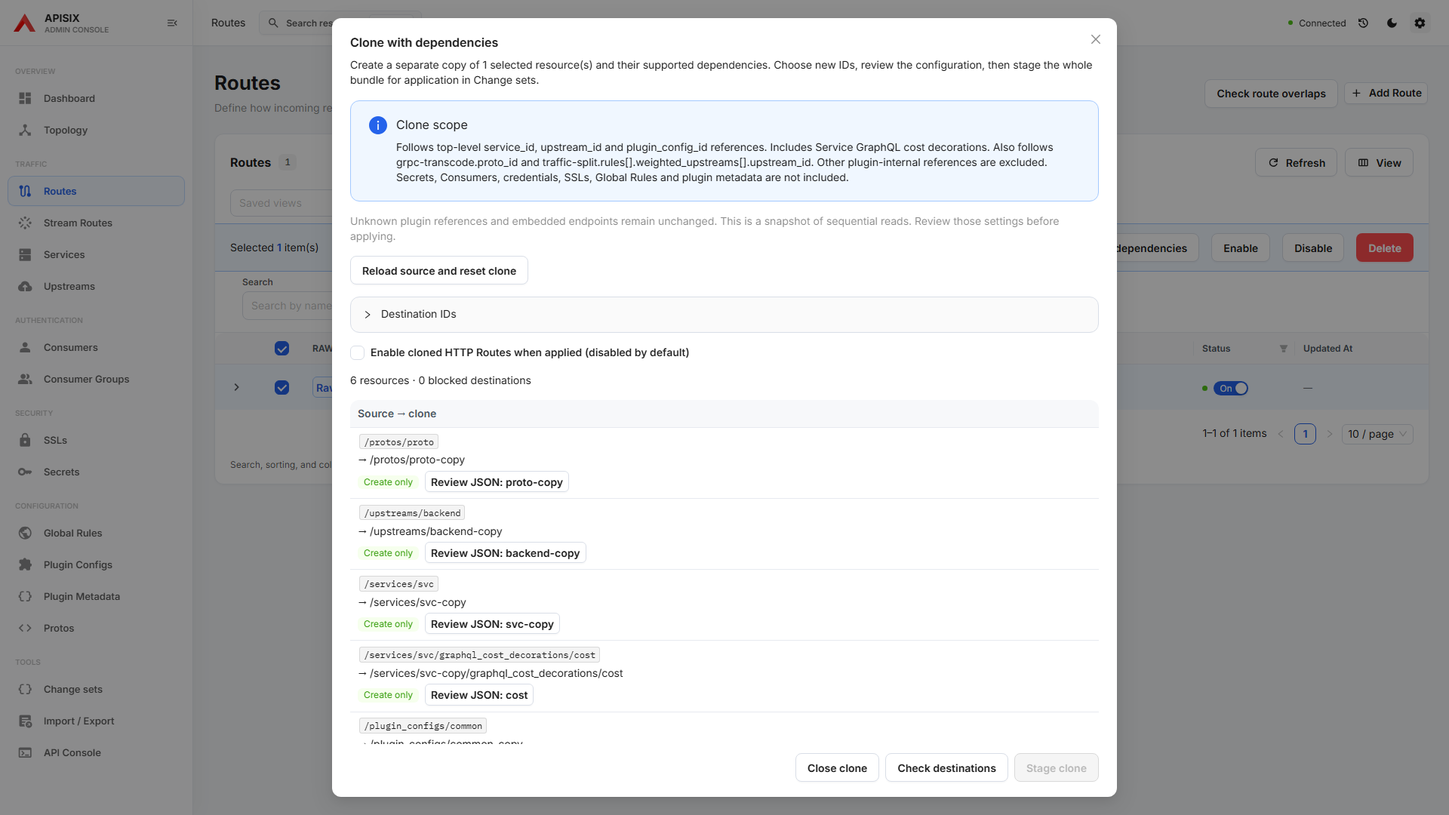
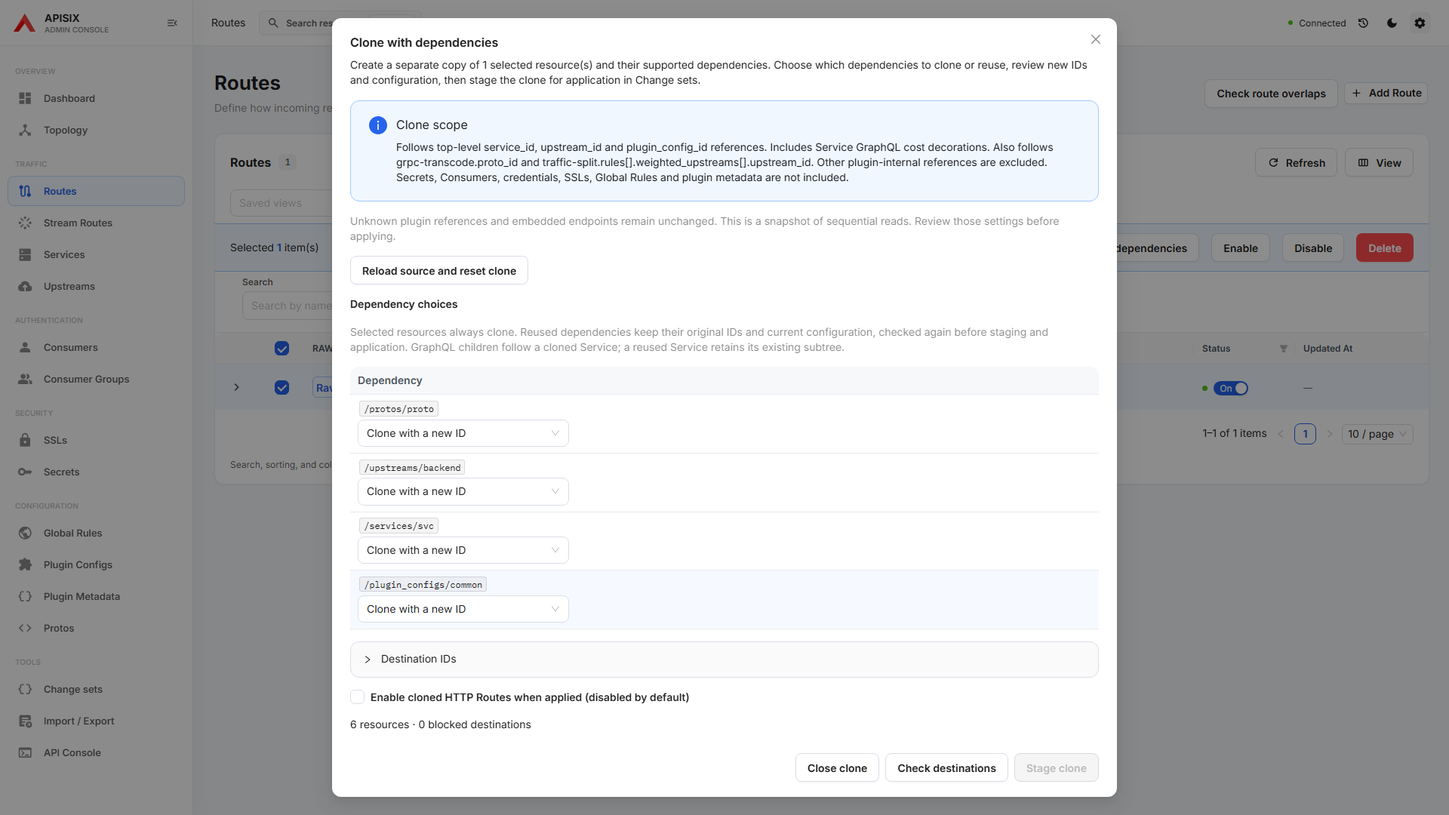
feat(clone): choose existing dependencies to reuse

Changed region(s): [[0.25, 0.3667, 0.7188, 0.9167], [0.25, 0.0917, 0.4688, 0.1222], [0.5625, 0.0611, 0.75, 0.0917]]

diff --git a/src/components/page/DependencyClone.tsx b/src/components/page/DependencyClone.tsx
@@ -15,12 +15,12 @@
  * limitations under the License.
  */
 import { Link } from '@tanstack/react-router';
-import { Alert, Button, Checkbox, Collapse, Modal, Space, Table, Tag, Typography } from 'antd';
+import { Alert, Button, Checkbox, Collapse, Modal, Select, Space, Table, Tag, Typography } from 'antd';
 import { useEffect, useRef, useState } from 'react';
 
-import { type CloneDraft, type ClonePreview, prepareCloneDrafts, previewDependencyClone, suggestCloneMappings } from '@/apis/dependency-clone';
+import { type CloneDraft, type ClonePreview, prepareCloneDrafts, previewDependencyClone, selectCloneResources, suggestCloneMappings } from '@/apis/dependency-clone';
 import { dependencyExportScope, prepareDependencyExport, supportsDependencyExport } from '@/apis/dependency-export';
-import type { ExportData } from '@/apis/export-import';
+import { type ExportData, getImportRequest, IMPORT_ORDER } from '@/apis/export-import';
 import type { ImportPreviewItem } from '@/apis/import-preview';
 import { JsonChangeReview } from '@/components/form/JsonChangeReview';
 import { EnvironmentIdMapping } from '@/components/page/EnvironmentIdMapping';
@@ -36,6 +36,7 @@ export const DependencyClone = ({ apiBase, selectedIds, disabled, onStage }: {
   const [source, setSource] = useState<ExportData>();
   const [ids, setIds] = useState<string[]>([]);
   const [mappings, setMappings] = useState('{}');
+  const [reusedUrls, setReusedUrls] = useState<string[]>([]);
   const [activate, setActivate] = useState(false);
   const [reviewed, setReviewed] = useState(false);
   const [preview, setPreview] = useState<ClonePreview>();
@@ -46,16 +47,16 @@ export const DependencyClone = ({ apiBase, selectedIds, disabled, onStage }: {
   useEffect(() => () => { ++revision.current; }, []);
   if (!supportsDependencyExport(apiBase)) return null;
   const invalidate = () => { ++revision.current; setPreview(undefined); setReviewed(false); setStaged(0); setError(''); setLoading(false); setDiff(undefined); };
-  const close = () => { invalidate(); setOpen(false); setSource(undefined); setMappings('{}'); setActivate(false); };
+  const close = () => { invalidate(); setOpen(false); setSource(undefined); setMappings('{}'); setActivate(false); setReusedUrls([]); };
   const readSource = async (selection: string[]) => {
-    invalidate(); const current = revision.current; setLoading(true); setSource(undefined); setActivate(false);
+    invalidate(); const current = revision.current; setLoading(true); setSource(undefined); setActivate(false); setReusedUrls([]);
     try {
       const bundle = await prepareDependencyExport(apiBase, selection, scope);
       if (current !== revision.current) return;
       if (bundle.blocked) throw new Error(bundle.rows.filter((row) => row.status !== 'Included').map((row) => `${row.key}: ${row.error}`).join('; '));
       const text = suggestCloneMappings(bundle.data);
       setSource(bundle.data); setMappings(text);
-      const result = await previewDependencyClone(bundle.data, text);
+      const result = await previewDependencyClone(bundle.data, text, false, { rootUrls: selection.map((id) => `${apiBase}/${encodeURIComponent(id)}`), reusedUrls: [] });
       if (current === revision.current) setPreview(result);
     } catch (cause) { if (current === revision.current) setError(message(cause)); }
     finally { if (current === revision.current) setLoading(false); }
@@ -64,7 +65,7 @@ export const DependencyClone = ({ apiBase, selectedIds, disabled, onStage }: {
     if (!source) return;
     const current = ++revision.current; setLoading(true); setError(''); setStaged(0);
     try {
-      const result = stage ? await prepareCloneDrafts(source, mappings, activate) : { preview: await previewDependencyClone(source, mappings, activate), drafts: [] };
+      const result = stage ? await prepareCloneDrafts(source, mappings, activate, choices) : { preview: await previewDependencyClone(source, mappings, activate, choices), drafts: [] };
       if (current !== revision.current) return;
       setPreview(result.preview);
       if (stage) {
@@ -73,6 +74,15 @@ export const DependencyClone = ({ apiBase, selectedIds, disabled, onStage }: {
       }
     } catch (cause) { if (current === revision.current) { setError(message(cause)); setReviewed(false); } }
     finally { if (current === revision.current) setLoading(false); }
+  };
+  const choices = { rootUrls: ids.map((id) => `${apiBase}/${encodeURIComponent(id)}`), reusedUrls };
+  const selection = source ? selectCloneResources(source, choices) : undefined;
+  const entries = source ? IMPORT_ORDER.flatMap((kind) => (source.resources[kind] ?? []).map((item) => ({ kind, item, url: getImportRequest(kind, item).url }))) : [];
+  const cloneUrls = new Set(selection ? IMPORT_ORDER.flatMap((kind) => (selection.data.resources[kind] ?? []).map((item) => getImportRequest(kind, item).url)) : []);
+  const fixedIds = entries.filter((entry) => !cloneUrls.has(entry.url)).map((entry) => JSON.stringify([entry.kind, String(entry.item.id)]));
+  const chooseReuse = (url: string, reuse: boolean) => {
+    invalidate();
+    setReusedUrls(reuse ? [...reusedUrls, url] : reusedUrls.filter((value) => value !== url));
   };
   const blocked = preview?.rows.filter((row) => row.status !== 'New').length ?? 0;
   return <>
@@ -83,18 +93,35 @@ export const DependencyClone = ({ apiBase, selectedIds, disabled, onStage }: {
         <Button aria-label="Check destinations" aria-busy={loading} loading={loading} disabled={!source || loading || !!staged} onClick={() => void compare()}>Check destinations</Button>
         <Button type="primary" aria-label="Stage clone" aria-busy={loading} loading={loading} disabled={loading || !preview || !preview.rows.length || !!blocked || !reviewed || !!staged} onClick={() => void compare(true)}>Stage clone</Button></Space>}>
       <Space orientation="vertical" size="middle" style={{ width: '100%' }}>
-        <Typography.Paragraph style={{ margin: 0 }}>Create a separate copy of {ids.length} selected resource(s) and their supported dependencies. Choose new IDs, review the configuration, then stage the whole bundle for application in Change sets.</Typography.Paragraph>
+        <Typography.Paragraph style={{ margin: 0 }}>Create a separate copy of {ids.length} selected resource(s) and their supported dependencies. Choose which dependencies to clone or reuse, review new IDs and configuration, then stage the clone for application in Change sets.</Typography.Paragraph>
         <Alert type="info" showIcon title="Clone scope" description={dependencyExportScope(scope)} />
         <Typography.Text type="secondary">Unknown plugin references and embedded endpoints remain unchanged. This is a snapshot of sequential reads. Review those settings before applying.</Typography.Text>
         <Button disabled={loading} onClick={() => void readSource(ids)}>Reload source and reset clone</Button>
         {error && <Alert type="error" showIcon title="Clone needs attention" description={error} />}
         {!!staged && <Alert type="success" showIcon title={`${staged} resources staged; nothing applied yet`} description={<Space orientation="vertical"><span>Create-only destinations are checked again before each write. This draft stays in memory until the page reloads.</span><Link to="/change_sets" onClick={close}>Open Change sets</Link></Space>} />}
         {source && <>
-          <Collapse defaultActiveKey={['mapping']} items={[{ key: 'mapping', label: 'Destination IDs', children: <EnvironmentIdMapping data={source} text={mappings} disabled={loading || !!staged} onChange={(text) => { invalidate(); setMappings(text); }} /> }]} />
+          <Typography.Text strong>Dependency choices</Typography.Text>
+          <Typography.Text type="secondary">Selected resources always clone. Reused dependencies keep their original IDs and current configuration, checked again before staging and application. GraphQL children follow a cloned Service; a reused Service retains its existing subtree.</Typography.Text>
+          <Table size="small" rowKey="url" dataSource={entries.filter((entry) => !choices.rootUrls.includes(entry.url) && entry.kind !== 'graphqlCostDecorations')} pagination={false} columns={[{
+            title: 'Dependency', key: 'dependency', render: (_, entry) => <Space orientation="vertical" size={4} style={{ width: '100%', overflowWrap: 'anywhere' }}>
+              <Typography.Text code>{entry.url}</Typography.Text>
+              <Select virtual={false} aria-label={`Dependency choice ${entry.url}`} value={reusedUrls.includes(entry.url) ? 'reuse' : 'clone'}
+                style={{ width: '100%', maxWidth: 280 }} disabled={loading || !!staged}
+                options={[{ value: 'clone', label: 'Clone with a new ID' }, { value: 'reuse', label: 'Reuse existing original' }]}
+                onChange={(value) => chooseReuse(entry.url, value === 'reuse')} />
+              {selection?.omittedUrls.includes(entry.url) && <Typography.Text type="secondary">Not needed by this clone; retained through a reused dependency.</Typography.Text>}
+            </Space>,
+          }]} />
+          <Collapse defaultActiveKey={['mapping']} items={[{ key: 'mapping', label: 'Destination IDs', children: <>
+            <Typography.Paragraph type="secondary">Mappings for reused or unneeded dependencies are ignored; their source IDs stay unchanged.</Typography.Paragraph>
+            <EnvironmentIdMapping data={source} text={mappings} fixedIds={fixedIds} disabled={loading || !!staged} onChange={(text) => { invalidate(); setMappings(text); }} />
+          </> }]} />
           {!!source.resources.routes.length && <Checkbox checked={activate} disabled={loading || !!staged} onChange={(event) => { invalidate(); setActivate(event.target.checked); }}>Enable cloned HTTP Routes when applied (disabled by default)</Checkbox>}
           {!!source.resources.streamRoutes.length && <Alert type="warning" showIcon title="Review Stream Route matching" description="Stream Routes have no cloned disabled state here. Their matching fields stay the same, so they can overlap active traffic when applied. Review server ports, addresses, SNI and priority in Change sets before applying." />}
         </>}
         {preview && <>
+          {!!preview.reusedUrls.length && <Alert type="info" title={`${preview.reusedUrls.length} existing dependencies reused`} description={<ul>{preview.reusedUrls.map((url) => <li key={url}><code>{url}</code></li>)}</ul>} />}
+          {!!preview.omittedUrls.length && <Collapse items={[{ key: 'omitted', label: `${preview.omittedUrls.length} resources outside the clone plan`, children: <><p>These remain under reused dependencies and will not be created or changed.</p><ul>{preview.omittedUrls.map((url) => <li key={url}><code>{url}</code></li>)}</ul></> }]} />}
           <div role="status">{preview.rows.length} resources · {blocked} blocked destinations</div>
           <Table size="small" rowKey="key" dataSource={preview.rows} pagination={{ pageSize: 6, showSizeChanger: false }} columns={[{
             title: 'Source → clone', key: 'resource', render: (_, row) => <Space orientation="vertical" size={4} style={{ width: '100%', overflowWrap: 'anywhere' }}>

diff --git a/src/apis/dependency-clone.ts b/src/apis/dependency-clone.ts
@@ -14,13 +14,54 @@
  * See the License for the specific language governing permissions and
  * limitations under the License.
  */
-import { checkEnvironmentReferences, type IdMappings, mapImportEnvironment, MAPPABLE_RESOURCES } from '@/apis/environment-import';
+import { checkEnvironmentReferences, environmentReferences, type IdMappings, mapImportEnvironment, MAPPABLE_RESOURCES, parseIdMappings } from '@/apis/environment-import';
 import { type ExportData, getImportRequest, IMPORT_ORDER, type ResourceKey } from '@/apis/export-import';
 import { type ImportPreviewItem, previewImport } from '@/apis/import-preview';
 
 const cloneKinds: ResourceKey[] = ['routes', 'streamRoutes', 'services', 'upstreams', 'pluginConfigs', 'protos', 'graphqlCostDecorations'];
 export type CloneDraft = { resourceType: ResourceKey; item: Record<string, unknown>; baseline: null };
-export type ClonePreview = { data: ExportData; rows: ImportPreviewItem[] };
+export type CloneChoices = { rootUrls: string[]; reusedUrls: string[] };
+export type ClonePreview = { data: ExportData; rows: ImportPreviewItem[]; reusedUrls: string[]; omittedUrls: string[] };
+
+/** Reusing an owner keeps its existing subtree; only references from cloned resources need copies. */
+export function selectCloneResources(source: ExportData, choices?: CloneChoices) {
+  const entries = IMPORT_ORDER.flatMap((kind) => (source.resources[kind] ?? []).map((item) => ({ kind, item, url: getImportRequest(kind, item).url })));
+  const byUrl = new Map(entries.map((entry) => [entry.url, entry]));
+  if (byUrl.size !== entries.length) throw new Error('Duplicate source resource in clone.');
+  if (entries.some((entry) => !cloneKinds.includes(entry.kind))) throw new Error('A resource type is not supported by this dependency scope.');
+  if (!entries.length) throw new Error('No resources were loaded for cloning.');
+  const roots = new Set(choices?.rootUrls ?? entries.map((entry) => entry.url));
+  const reused = new Set(choices?.reusedUrls ?? []);
+  if (!roots.size || [...roots].some((url) => !byUrl.has(url))) throw new Error('Selected clone roots must be resources in the loaded source.');
+  for (const url of reused) {
+    if (!byUrl.has(url) || roots.has(url) || byUrl.get(url)!.kind === 'graphqlCostDecorations')
+      throw new Error('Only non-selected dependencies can be reused. GraphQL children follow their Service.');
+  }
+  const cloned = new Set<string>(); const activeReused = new Set<string>();
+  const visit = (url: string) => {
+    const entry = byUrl.get(url); if (!entry || cloned.has(url) || activeReused.has(url)) return;
+    if (reused.has(url)) { activeReused.add(url); return; }
+    cloned.add(url);
+    for (const ref of environmentReferences(entry.kind, entry.item)) visit(`/${ref.targetKind}/${encodeURIComponent(String(ref.value))}`);
+    if (entry.kind === 'services') for (const child of entries) {
+      if (child.kind === 'graphqlCostDecorations' && child.url.startsWith(`${url}/graphql_cost_decorations/`)) visit(child.url);
+    }
+  };
+  roots.forEach(visit);
+  const resources = Object.fromEntries(IMPORT_ORDER.map((kind) => [kind, entries.filter((entry) => entry.kind === kind && cloned.has(entry.url)).map((entry) => entry.item)])) as ExportData['resources'];
+  // Preserve source artifact markers so the mapping/import guards still see them.
+  const data: ExportData = { ...source, resources };
+  return { data, reusedUrls: [...activeReused], omittedUrls: entries.filter((entry) => !cloned.has(entry.url) && !activeReused.has(entry.url)).map((entry) => entry.url) };
+}
+
+/** Ignore mappings for dependencies outside the clone; retained references keep their exact source ID. */
+export function cloneMappingText(source: ExportData, text: string, choices?: CloneChoices) {
+  const selected = selectCloneResources(source, choices);
+  const kept = new Set(IMPORT_ORDER.flatMap((kind) => (selected.data.resources[kind] ?? []).map((item) => getImportRequest(kind, item).url)));
+  const excluded = new Set(IMPORT_ORDER.flatMap((kind) => (source.resources[kind] ?? []).filter((item) => !kept.has(getImportRequest(kind, item).url)).map((item) => JSON.stringify([kind, String(item.id)]))));
+  const mappings = parseIdMappings(text);
+  return JSON.stringify(Object.fromEntries(Object.entries(mappings).map(([kind, values]) => [kind, Object.fromEntries(Object.entries(values).filter(([id]) => !excluded.has(JSON.stringify([kind, id]))))])), null, 2);
+}
 
 /** Suggestions reserve all original IDs as well as earlier suggestions; availability still requires GET. */
 export function suggestCloneMappings(data: ExportData): string {
@@ -41,26 +82,20 @@ export function suggestCloneMappings(data: ExportData): string {
   return JSON.stringify(mappings, null, 2);
 }
 
-export function mapDependencyClone(source: ExportData, mappings: string, activateHttpRoutes = false): ExportData {
-  const seen = new Set<string>();
-  for (const kind of IMPORT_ORDER) for (const item of source.resources[kind] ?? []) {
-    if (!cloneKinds.includes(kind)) throw new Error(`Cloning ${kind} is not supported by this dependency scope.`);
-    const { url } = getImportRequest(kind, item);
-    if (seen.has(url)) throw new Error(`Duplicate source resource: ${url}`);
-    seen.add(url);
-  }
-  if (!seen.size) throw new Error('No resources were loaded for cloning.');
-  const mapped = mapImportEnvironment(source, mappings);
+export function mapDependencyClone(source: ExportData, mappings: string, activateHttpRoutes = false, choices?: CloneChoices): ExportData {
+  const selected = selectCloneResources(source, choices);
+  const mapped = mapImportEnvironment(selected.data, cloneMappingText(source, mappings, choices));
   // HTTP Routes have an explicit disabled state. Do not invent a status for Stream Routes.
   mapped.resources.routes = mapped.resources.routes.map((item) => ({ ...item, status: activateHttpRoutes ? 1 : 0 }));
   return mapped;
 }
 
-export async function previewDependencyClone(source: ExportData, mappings: string, activateHttpRoutes = false): Promise<ClonePreview> {
-  const data = mapDependencyClone(source, mappings, activateHttpRoutes);
+export async function previewDependencyClone(source: ExportData, mappings: string, activateHttpRoutes = false, choices?: CloneChoices): Promise<ClonePreview> {
+  const selected = selectCloneResources(source, choices);
+  const data = mapDependencyClone(source, mappings, activateHttpRoutes, choices);
   const rows = await previewImport(data, cloneKinds);
   for (const row of rows) {
-    const original = getImportRequest(row.resourceType, source.resources[row.resourceType]![row.index]);
+    const original = getImportRequest(row.resourceType, selected.data.resources[row.resourceType]![row.index]);
     row.sourceUrl = original.url; row.sourceBody = original.body;
     if (row.url === original.url) {
       row.status = 'Blocked'; row.error = 'Choose a new destination ID. A clone cannot replace its source.';
@@ -68,13 +103,15 @@ export async function previewDependencyClone(source: ExportData, mappings: strin
       row.status = 'Blocked'; row.error = 'Destination already exists. Choose a different ID; clones never overwrite existing resources.';
     }
   }
+  // Reused resources are external references. This verifies exact identity now and again at staging;
+  // Change sets runs the same validator immediately before applying each dependent resource.
   await checkEnvironmentReferences(rows);
-  return { data, rows };
+  return { data, rows, reusedUrls: selected.reusedUrls, omittedUrls: selected.omittedUrls };
 }
 
 /** Repeat the read before staging; the Change sets executor also rechecks each create-only baseline. */
-export async function prepareCloneDrafts(source: ExportData, mappings: string, activateHttpRoutes = false): Promise<{ preview: ClonePreview; drafts: CloneDraft[] }> {
-  const preview = await previewDependencyClone(source, mappings, activateHttpRoutes);
+export async function prepareCloneDrafts(source: ExportData, mappings: string, activateHttpRoutes = false, choices?: CloneChoices): Promise<{ preview: ClonePreview; drafts: CloneDraft[] }> {
+  const preview = await previewDependencyClone(source, mappings, activateHttpRoutes, choices);
   if (preview.rows.some((row) => row.status !== 'New'))
     return { preview, drafts: [] };
   return { preview, drafts: preview.rows.map((row) => ({

diff --git a/e2e/tests/dependency-clone-ui.spec.ts b/e2e/tests/dependency-clone-ui.spec.ts
@@ -211,3 +211,71 @@ test('leaving the source page while staging is waiting cannot add background dra
   await page.getByRole('menuitem', { name: 'Change sets', exact: true }).click();
   await expect(page.getByText('No staged changes yet', { exact: true })).toBeVisible(); expect(controls.writes).toEqual([]);
 });
+
+
+async function reuse(page: Page, url: string) {
+  const choice = modal(page).getByRole('combobox', { name: `Dependency choice ${url}`, exact: true });
+  await choice.click();
+  const listId = await choice.getAttribute('aria-controls');
+  await page.locator(`[id="${listId}"]`).getByRole('option', { name: 'Reuse existing original', exact: true }).click();
+  await expect(choice).toHaveAttribute('aria-expanded', 'false');
+}
+
+test('mixed reuse choices preserve original Service and Proto while cloning remaining references and children correctly', async ({ page }) => {
+  const controls = await setup(page); await open(page);
+  await expect(modal(page).getByRole('status')).toHaveText('6 resources · 0 blocked destinations');
+  await expect(modal(page).getByRole('combobox', { name: 'Dependency choice /routes/main', exact: true })).toHaveCount(0);
+  await expect(modal(page).getByRole('combobox', { name: /graphql_cost_decorations/ })).toHaveCount(0);
+  await reuse(page, '/services/svc'); await reuse(page, '/protos/proto');
+  await expect(modal(page).getByRole('button', { name: 'Stage clone', exact: true })).toBeDisabled();
+  await expect(modal(page).getByLabel('Destination services/svc', { exact: true })).toHaveValue('svc');
+  await expect(modal(page).getByLabel('Destination services/svc', { exact: true })).toBeDisabled();
+  await modal(page).getByRole('button', { name: 'Check destinations', exact: true }).click();
+  await expect(modal(page)).toContainText('2 existing dependencies reused');
+  await expect(modal(page)).toContainText('1 resources outside the clone plan');
+  await modal(page).getByText('Destination IDs', { exact: true }).click();
+  await modal(page).locator('.ant-modal-body').evaluate((element) => { element.scrollTop = 0; });
+  await page.screenshot({ path: test.info().outputPath('dependency-clone-reuse.png'), animations: 'disabled' });
+  await stage(page, 3); await workspace(page); await apply(page, 3);
+  expect(controls.writes.map((write) => write.url).sort()).toEqual(['/plugin_configs/common-copy', '/routes/main-copy', '/upstreams/backend-copy']);
+  expect(controls.records.get('/routes/main-copy')).toMatchObject({ service_id: 'svc', plugin_config_id: 'common-copy' });
+  expect(controls.records.get('/plugin_configs/common-copy')).toMatchObject({ plugins: { 'grpc-transcode': { proto_id: 'proto' }, 'traffic-split': { rules: [{ weighted_upstreams: [{ upstream_id: 'backend-copy' }] }] } } });
+  expect(controls.records.get('/services/svc')).toMatchObject({ upstream_id: 'backend' });
+});
+
+test('reused dependency failures block preview, staging and final application without a write', async ({ page }) => {
+  const controls = await setup(page); await open(page);
+  await expect(modal(page).getByRole('status')).toHaveText('6 resources · 0 blocked destinations');
+  await reuse(page, '/services/svc'); await reuse(page, '/plugin_configs/common');
+  controls.fail.add('/services/svc');
+  await modal(page).getByRole('button', { name: 'Check destinations', exact: true }).click();
+  await expect(modal(page)).toContainText('missing or unreadable');
+  controls.fail.clear(); await modal(page).getByRole('button', { name: 'Check destinations', exact: true }).click();
+  await expect(modal(page).getByRole('status')).toHaveText('1 resources · 0 blocked destinations');
+  controls.records.set('/services/svc', { id: 'wrong' });
+  await modal(page).getByRole('checkbox', { name: /I reviewed the destination IDs/ }).check();
+  await modal(page).getByRole('button', { name: 'Stage clone', exact: true }).click();
+  await expect(modal(page)).toContainText('A destination or reference changed');
+  controls.records.set('/services/svc', { id: 'svc', upstream_id: 'backend' });
+  await modal(page).getByRole('button', { name: 'Check destinations', exact: true }).click(); await stage(page, 1);
+  await workspace(page); await page.getByRole('button', { name: 'Preview destinations', exact: true }).click();
+  await expect(page.getByRole('button', { name: 'Apply 1 changes', exact: true })).toBeEnabled();
+  controls.records.set('/services/svc', { id: 'wrong' });
+  await page.getByRole('button', { name: 'Apply 1 changes', exact: true }).click();
+  await page.getByRole('dialog', { name: 'Apply change set', exact: true }).getByRole('button', { name: 'Apply 1 changes', exact: true }).click();
+  await expect(page.getByText(/missing or unreadable/)).toBeVisible(); expect(controls.writes).toEqual([]);
+});
+
+test('reuse choice remains keyboard accessible in the narrow clone flow', async ({ page }) => {
+  await page.setViewportSize({ width: 390, height: 640 }); await setup(page); await open(page);
+  await expect(modal(page).getByRole('status')).toHaveText('6 resources · 0 blocked destinations');
+  const choice = modal(page).getByRole('combobox', { name: 'Dependency choice /services/svc', exact: true });
+  await choice.focus(); await page.keyboard.press('ArrowDown'); await page.keyboard.press('ArrowDown'); await page.keyboard.press('Enter');
+  await expect(modal(page).getByRole('button', { name: 'Stage clone', exact: true })).toBeDisabled();
+  await modal(page).getByRole('button', { name: 'Check destinations', exact: true }).click();
+  await expect(modal(page)).toContainText('1 existing dependencies reused');
+  const footer = await modal(page).getByRole('button', { name: 'Stage clone', exact: true }).boundingBox();
+  expect(footer!.y + footer!.height).toBeLessThanOrEqual(640);
+  expect(await modal(page).evaluate((element) => element.scrollWidth <= element.clientWidth + 1)).toBe(true);
+  await choice.focus(); await page.screenshot({ path: test.info().outputPath('dependency-clone-reuse-narrow.png'), animations: 'disabled' });
+});

diff --git a/e2e/tests/dependency-clone.spec.ts b/e2e/tests/dependency-clone.spec.ts
@@ -134,3 +134,46 @@ test('dependency source verification blocks wrong IDs before following private r
   const source = await prepareDependencyExport('/routes', ['main'], { pluginReferences: true, graphqlCostDecorations: true });
   expect(source.blocked).toBe(1); expect(reads).toEqual(['/routes/main']); expect(writes).toEqual([]);
 });
+
+
+test('mixed reuse keeps original references, prunes reused owner children, and stages only create-only clones', async () => {
+  const source = snapshot({ routes: [{ id: 'main', service_id: 'svc', plugin_config_id: 'pc' }],
+    services: [{ id: 'svc', upstream_id: 'backend' }], upstreams: [{ id: 'backend', nodes: {} }],
+    pluginConfigs: [{ id: 'pc', plugins: { 'grpc-transcode': { proto_id: 'proto' }, 'traffic-split': { rules: [{ weighted_upstreams: [{ upstream_id: 'backend' }] }] } } }],
+    protos: [{ id: 'proto', content: 'test' }], graphqlCostDecorations: [{ service_id: 'svc', id: 'cost', cost: 2 }],
+  });
+  const original = JSON.stringify(source);
+  const choices = { rootUrls: ['/routes/main'], reusedUrls: ['/services/svc', '/protos/proto'] };
+  records.set('/services/svc', { value: { id: 'svc', upstream_id: 'backend' } });
+  records.set('/protos/proto', { value: { id: 'proto', content: 'test' } });
+  const result = await prepareCloneDrafts(source, suggestCloneMappings(source), false, choices);
+  expect(result.drafts).toHaveLength(3); expect(result.drafts.every((draft) => draft.baseline === null)).toBe(true);
+  expect(result.preview.reusedUrls.sort()).toEqual(['/protos/proto', '/services/svc']);
+  expect(result.preview.omittedUrls).toEqual(['/services/svc/graphql_cost_decorations/cost']);
+  expect(result.preview.data.resources.routes[0]).toMatchObject({ service_id: 'svc', plugin_config_id: 'pc-copy', status: 0 });
+  expect(result.preview.data.resources.pluginConfigs[0]).toMatchObject({ plugins: { 'grpc-transcode': { proto_id: 'proto' }, 'traffic-split': { rules: [{ weighted_upstreams: [{ upstream_id: 'backend-copy' }] }] } } });
+  expect(result.preview.data.resources.graphqlCostDecorations).toEqual([]);
+  expect(reads).not.toContain('/services/svc-copy'); expect(reads).not.toContain('/protos/proto-copy');
+  records.set('/upstreams/backend-copy', { value: { id: 'backend-copy', nodes: {} } });
+  const collision = await prepareCloneDrafts(source, suggestCloneMappings(source), false, choices);
+  expect(collision.drafts).toEqual([]);
+  expect(collision.preview.rows.find((row) => row.resourceType === 'upstreams')?.error).toContain('already exists');
+  expect(JSON.stringify(source)).toBe(original); expect(writes).toEqual([]);
+});
+
+test('reuse validates exact current identities at preview and staging and cannot reuse selected roots or children', async () => {
+  const source = snapshot({ routes: [{ id: 'main', service_id: 'svc' }], services: [{ id: 'svc', upstream_id: 'backend' }],
+    upstreams: [{ id: 'backend' }], graphqlCostDecorations: [{ service_id: 'svc', id: 'cost', cost: 2 }] });
+  const choices = { rootUrls: ['/routes/main'], reusedUrls: ['/services/svc'] }; const mappings = suggestCloneMappings(source);
+  records.set('/services/svc', { value: { id: 'svc' }, key: '/apisix/services/other' });
+  expect((await previewDependencyClone(source, mappings, false, choices)).rows[0].status).toBe('Blocked');
+  records.set('/services/svc', { value: { id: 'svc' } });
+  const preview = await previewDependencyClone(source, mappings, false, choices);
+  expect(preview.rows).toHaveLength(1); expect(preview.omittedUrls.sort()).toEqual(['/services/svc/graphql_cost_decorations/cost', '/upstreams/backend']);
+  records.set('/services/svc', { value: { id: ['svc'] } });
+  expect((await prepareCloneDrafts(source, mappings, false, choices)).drafts).toEqual([]);
+  records.delete('/services/svc'); expect((await prepareCloneDrafts(source, mappings, false, choices)).drafts).toEqual([]);
+  for (const url of ['/routes/main', '/services/svc/graphql_cost_decorations/cost', '/services/unknown'])
+    await expect(previewDependencyClone(source, mappings, false, { ...choices, reusedUrls: [url] })).rejects.toThrow('Only non-selected dependencies');
+  expect(writes).toEqual([]);
+});

diff --git a/src/components/page/EnvironmentIdMapping.tsx b/src/components/page/EnvironmentIdMapping.tsx
@@ -21,8 +21,8 @@ import { environmentMappingRows, mapImportEnvironment, parseIdMappings, updateId
 import { type ExportData, RESOURCE_LABELS } from '@/apis/export-import';
 import { downloadJson } from '@/utils/downloadJson';
 
-export const EnvironmentIdMapping = ({ data, text, onChange, disabled }: {
-  data: ExportData; text: string; onChange: (text: string) => void; disabled: boolean;
+export const EnvironmentIdMapping = ({ data, text, onChange, disabled, fixedIds = [] }: {
+  data: ExportData; text: string; onChange: (text: string) => void; disabled: boolean; fixedIds?: string[];
 }) => {
   const screens = Grid.useBreakpoint();
   const narrow = !screens.md;
@@ -43,8 +43,8 @@ export const EnvironmentIdMapping = ({ data, text, onChange, disabled }: {
       columns={narrow ? [{ title: 'ID mapping', key: 'mapping', render: (_, row) => <Space orientation="vertical" size={6} style={{ width: '100%' }}>
         <Typography.Text strong>{RESOURCE_LABELS[row.kind]}</Typography.Text>
         <Typography.Text style={{ overflowWrap: 'anywhere' }}>Source: {row.source}</Typography.Text>
-        <Input aria-label={`Destination ${row.kind}/${row.source}`} value={row.destination} placeholder={`Keep ${row.source}`}
-          disabled={disabled} onChange={(event) => onChange(updateIdMapping(text, row.kind, row.source, event.target.value))} />
+        <Input aria-label={`Destination ${row.kind}/${row.source}`} value={fixedIds.includes(row.key) ? row.source : row.destination} placeholder={`Keep ${row.source}`}
+          disabled={disabled || fixedIds.includes(row.key)} onChange={(event) => onChange(updateIdMapping(text, row.kind, row.source, event.target.value))} />
         <Typography.Text type="secondary">{row.contexts.includes('Resource in file') ? 'Resource in file' : 'Reference or explicit mapping'}</Typography.Text>
       </Space> }] : [
         { title: 'Resource', key: 'kind', width: 130, render: (_, row) => RESOURCE_LABELS[row.kind] },
@@ -53,10 +53,10 @@ export const EnvironmentIdMapping = ({ data, text, onChange, disabled }: {
           <Typography.Text type="secondary">{row.contexts.includes('Resource in file') ? 'Resource in file' : 'Reference or explicit mapping'}</Typography.Text>
         </Space> },
         { title: 'Destination ID', key: 'destination', width: 230, render: (_, row) => <Input
-          aria-label={`Destination ${row.kind}/${row.source}`} value={row.destination} placeholder={row.source}
-          disabled={disabled} onChange={(event) => onChange(updateIdMapping(text, row.kind, row.source, event.target.value))} /> },
+          aria-label={`Destination ${row.kind}/${row.source}`} value={fixedIds.includes(row.key) ? row.source : row.destination} placeholder={row.source}
+          disabled={disabled || fixedIds.includes(row.key)} onChange={(event) => onChange(updateIdMapping(text, row.kind, row.source, event.target.value))} /> },
         { title: 'Mapping', key: 'mapping', width: 90, render: (_, row) => <Tag color={row.destination && row.destination !== row.source ? 'blue' : 'default'}>
-          {row.destination && row.destination !== row.source ? 'Remapped' : 'Keep ID'}
+          {fixedIds.includes(row.key) ? 'Reuse original' : row.destination && row.destination !== row.source ? 'Remapped' : 'Keep ID'}
         </Tag> },
       ]} />
     <Space wrap>

diff --git a/docs/en/dependency-clone.md b/docs/en/dependency-clone.md
@@ -15,3 +15,10 @@ The executor checks each create-only destination again before its PUT and verifi
 ## Verification
 
 Fixture-backed contracts cover ID/ref/child remapping, unknown JSON and own `__proto__` keys, collisions, wrong identity responses, a destination appearing after preview, and HTTP/Stream status semantics. Browser fixtures exercise the complete clone → staged create-only → ordered verified apply workflow, no-write staging/failure paths, duplicate staging, stale response dismissal and bounded modal footers at 390px width. No populated local gateway is used by these tests.
+
+
+## Clone or reuse dependencies
+
+Selected resources always receive new IDs. Each eligible Service, Upstream, Plugin Config and Proto dependency offers an explicit **Clone with a new ID** or **Reuse existing original** choice. Reused references retain their original IDs and current configuration. A reused Service retains its existing GraphQL children and transitive dependencies; resources no longer needed by any cloned resource are listed outside the clone plan. A dependency still referenced by another cloned resource remains included. GraphQL children follow a cloned Service and cannot be independently reused under a different owner.
+
+Reused and omitted resource mappings are excluded from the effective clone mapping, even when mapping JSON contains saved suggestions; the visual fields show fixed original IDs. The preview lists both reused and omitted resource paths explicitly. Changing a choice invalidates the prior review. Fresh exact identity reads validate reused references at preview, staging, Change sets preview and immediately before applying each dependent resource. Missing, unreadable or wrongly identified responses block the operation. Reusing a resource does not freeze its configuration or provide an atomic cross-resource transaction.
